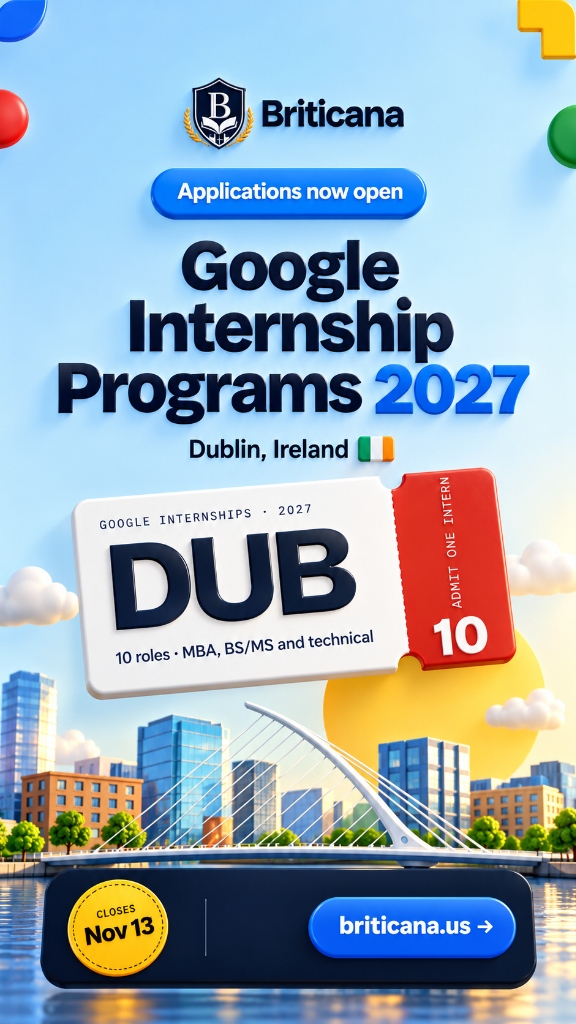
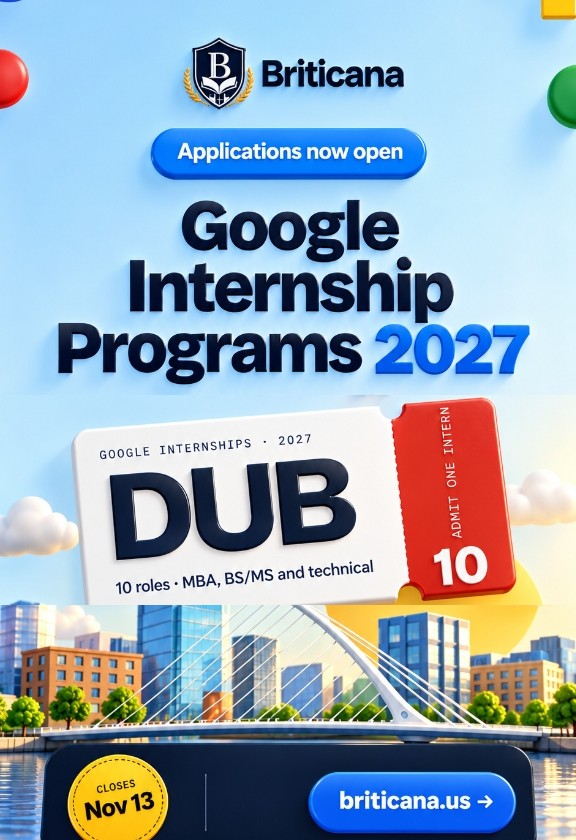
style: optimize poster height and width for full heading visibility and clean hero alignment

diff --git a/src/styles/home-internship-popup.css b/src/styles/home-internship-popup.css
@@ -1,17 +1,17 @@
 /* ==========================================================================
    Briticana Home Promotional Internship 3D Poster Flyer Popup
    Appears after 1 second on the bottom-right corner of the Home Page Hero.
-   Renders the full 3D rendered Google Internship Dublin 2027 poster artwork.
+   Renders the compact, perfectly-proportioned Google Internship Dublin 2027 poster.
    Includes interactive "Explore ->" button navigating directly to /internships.
-   Fully responsive across all viewport sizes.
+   Fully responsive across all viewport sizes with ample heading headroom.
    ========================================================================== */
 
 .briti-promo-flyer-wrap {
   position: absolute;
-  bottom: 88px;
+  bottom: 62px;
   right: 24px;
   z-index: 25;
-  width: 254px;
+  width: 268px;
   max-width: calc(100% - 24px);
   pointer-events: auto;
   animation: britiFlyerSlideIn 0.5s cubic-bezier(0.16, 1, 0.3, 1) forwards;
@@ -20,8 +20,8 @@
 /* Medium / Laptop Desktops */
 @media (min-width: 992px) and (max-width: 1199.98px) {
   .briti-promo-flyer-wrap {
-    width: 242px;
-    bottom: 84px;
+    width: 250px;
+    bottom: 58px;
     right: 18px;
   }
 }
@@ -33,9 +33,9 @@
     bottom: auto;
     right: auto;
     left: auto;
-    margin: 28px auto 0;
+    margin: 26px auto 0;
     width: 280px;
-    max-width: 90vw;
+    max-width: 88vw;
   }
 }
 
@@ -46,8 +46,8 @@
     bottom: auto;
     right: auto;
     left: auto;
-    margin: 22px auto 0;
-    width: min(285px, 86vw);
+    margin: 20px auto 0;
+    width: min(290px, 86vw);
     max-width: 100%;
   }
 }
@@ -56,7 +56,7 @@
 @media (max-width: 379.98px) {
   .briti-promo-flyer-wrap {
     width: min(250px, 92vw);
-    margin: 18px auto 0;
+    margin: 16px auto 0;
   }
 }
 
@@ -119,7 +119,7 @@
 .briti-promo-poster-img {
   width: 100%;
   height: auto;
-  aspect-ratio: 576 / 1024;
+  aspect-ratio: 576 / 840;
   display: block;
   object-fit: cover;
   border-radius: 20px;
@@ -130,14 +130,14 @@
 /* Interactive 3D Explore Button over the bottom blue pill */
 .briti-promo-poster__explore-btn {
   position: absolute;
-  right: 8.2%;
-  bottom: 5.6%;
-  width: 39.5%;
-  height: 7.2%;
+  right: 8.5%;
+  bottom: 5.2%;
+  width: 39%;
+  height: 8.5%;
   border-radius: 999px;
   background: linear-gradient(180deg, #1d6fee 0%, #004ecc 100%);
   color: #ffffff !important;
-  font-size: clamp(0.72rem, 1vw, 0.84rem);
+  font-size: clamp(0.72rem, 1.1vw, 0.85rem);
   font-weight: 800;
   display: inline-flex;
   align-items: center;

diff --git a/src/components/marketing/HomeInternshipPopup.tsx b/src/components/marketing/HomeInternshipPopup.tsx
@@ -79,7 +79,7 @@ export default function HomeInternshipPopup() {
             alt="Google Internship Programs 2027 - Dublin, Ireland (10 Roles) - Briticana"
             className="briti-promo-poster-img"
             width={576}
-            height={1024}
+            height={840}
             loading="eager"
           />
 
